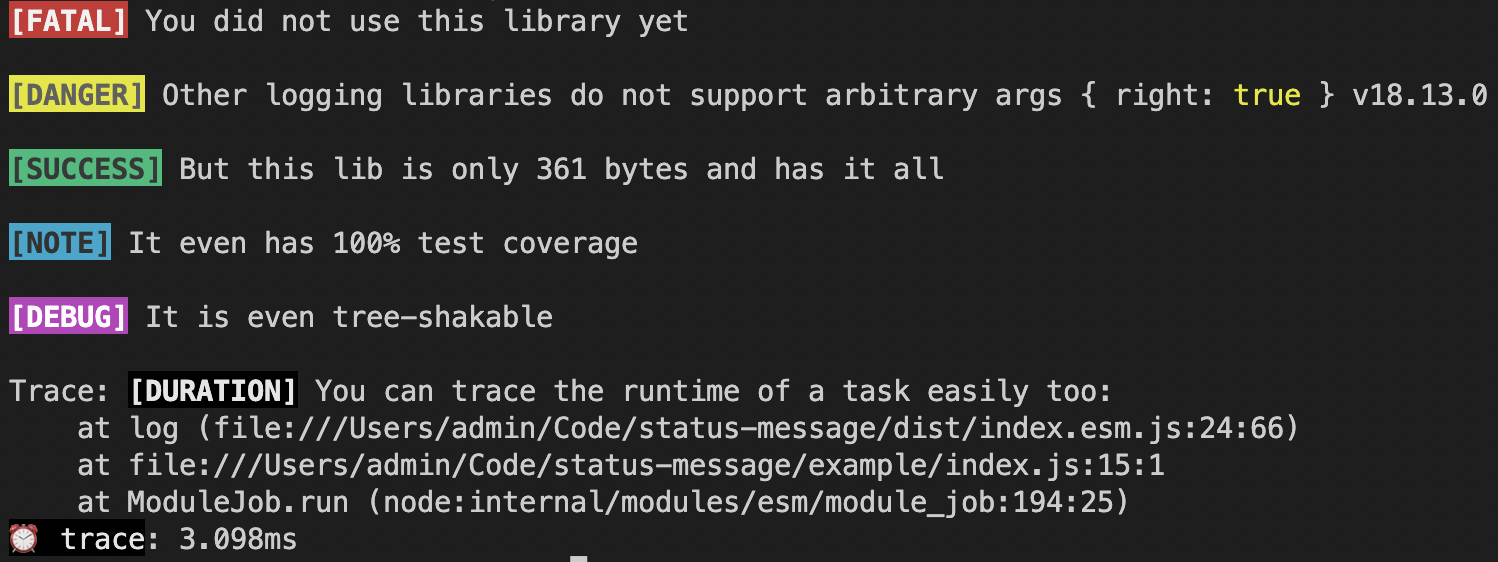
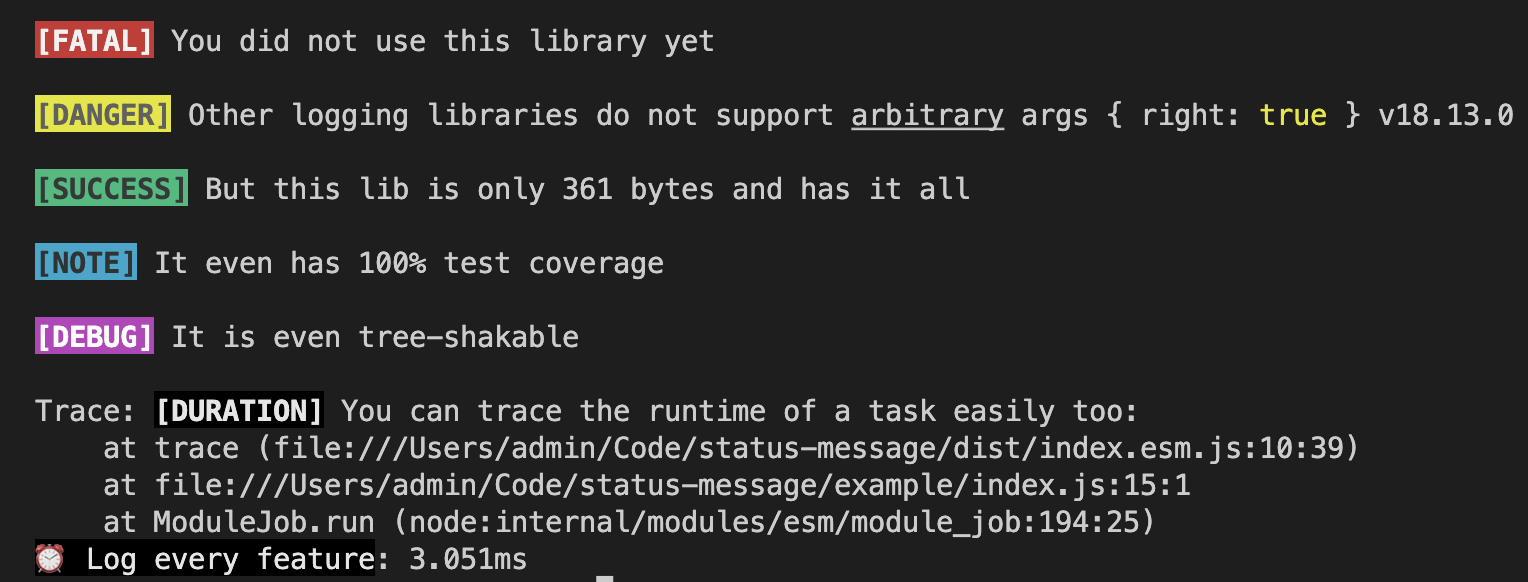
feat: reworked API

diff --git a/test/statusmessage.test.ts b/test/statusmessage.test.ts
@@ -1,6 +1,6 @@
 import { jest } from '@jest/globals'
 import * as colors from 'kleur/colors'
-import { Severity, boldWhiteText, wrapInBrackets, formatTag, log, logTime, logTimeEnd } from '../dist/index.esm'
+import { boldWhiteText, wrapInBrackets, log, time, timeEnd, error, warn, info, trace, debug } from '../dist/index.esm'
 
 describe('statusmessage', () => {
   it('can call statusmessage', () => {
@@ -20,65 +20,53 @@ describe('wrapInBrackets', () => {
   })
 })
 
-describe('formatTag', () => {
-  it('should return the tag wrapped in bold and white brackets with a red background for the error severity', () => {
-    expect(formatTag('error', 'test')).toEqual(colors.bgRed(wrapInBrackets('test')))
-  })
-})
-
 describe('log', () => {
   it('should call the console.info method with the formatted tag and arguments, severity: info', () => {
     console.info = jest.fn()
-    const severity: Severity = 'info'
     const tag = 'test'
     const args = ['arg1', 'arg2']
-    log(severity, tag, ...args)
-    expect(console.info).toHaveBeenCalledWith(formatTag(severity, tag), ...args)
+    info(tag, ...args)
+    expect(console.info).toHaveBeenCalled()
   })
 
   it('should call the console.log method with the formatted tag and arguments, severity: log', () => {
     console.log = jest.fn()
-    const severity: Severity = 'log'
     const tag = 'test'
     const args = ['arg1', 'arg2']
-    log(severity, tag, ...args)
-    expect(console.log).toHaveBeenCalledWith(formatTag(severity, tag), ...args)
+    log(tag, ...args)
+    expect(console.log).toHaveBeenCalled()
   })
 
   it('should call the console.error method with the formatted tag and arguments, severity: error', () => {
     console.error = jest.fn()
-    const severity: Severity = 'error'
     const tag = 'test'
     const args = ['arg1', 'arg2']
-    log(severity, tag, ...args)
-    expect(console.error).toHaveBeenCalledWith(formatTag(severity, tag), ...args)
+    error(tag, ...args)
+    expect(console.error).toHaveBeenCalled()
   })
 
   it('should call the console.warn method with the formatted tag and arguments, severity: warn', () => {
     console.warn = jest.fn()
-    const severity: Severity = 'warn'
     const tag = 'test'
     const args = ['arg1', 'arg2']
-    log(severity, tag, ...args)
-    expect(console.warn).toHaveBeenCalledWith(formatTag(severity, tag), ...args)
+    warn(tag, ...args)
+    expect(console.warn).toHaveBeenCalled()
   })
 
   it('should call the console.debug method with the formatted tag and arguments, severity: debug', () => {
     console.debug = jest.fn()
-    const severity: Severity = 'debug'
     const tag = 'test'
     const args = ['arg1', 'arg2']
-    log(severity, tag, ...args)
-    expect(console.debug).toHaveBeenCalledWith(formatTag(severity, tag), ...args)
+    debug(tag, ...args)
+    expect(console.debug).toHaveBeenCalled()
   })
 
   it('should call the console.trace method with the formatted tag and arguments, severity: trace', () => {
     console.trace = jest.fn()
-    const severity: Severity = 'trace'
     const tag = 'test'
     const args = ['arg1', 'arg2']
-    log(severity, tag, ...args)
-    expect(console.trace).toHaveBeenCalledWith(formatTag(severity, tag), ...args)
+    trace(tag, ...args)
+    expect(console.trace).toHaveBeenCalled()
   })
 })
 
@@ -86,14 +74,8 @@ describe('logTime', () => {
   it('should call the console time method with the formatted tag and arguments', () => {
     console.time = jest.fn()
     const tag = 'test'
-    logTime(tag)
+    time(tag)
     expect(console.time).toHaveBeenCalledTimes(1)
-  })
-})
-
-describe('formatTag', () => {
-  it('can format without severity', () => {
-    formatTag(undefined, 'foo')
   })
 })
 
@@ -103,24 +85,24 @@ describe('empty line', () => {
   })
 })
 
-describe('logTimeEnd', () => {
+describe('timEnd', () => {
   it('should call the console timeEnd method with the formatted tag and arguments', () => {
     console.timeEnd = jest.fn()
     const tag = 'test'
-    logTimeEnd(tag)
+    timeEnd(tag)
     expect(console.timeEnd).toHaveBeenCalledTimes(1)
   })
 })
 
 describe('README use-case', () => {
-  logTime('Log every feature')
+  time('Log every feature')
 
-  log('error', 'FATAL', 'You did not use this library yet')
-  log('warn', 'DANGER', 'Other logging libraries do not support arbitrary args', { right: true }, process.version)
-  log('log', 'SUCCESS', 'But this lib is only 361 bytes and has it all')
-  log('info', 'NOTE', 'It even has 100% test coverage')
-  log('debug', 'DEBUG', 'It is even tree-shakable')
-  log('trace', 'DURATION', 'You can trace the runtime of a task easily too:')
+  error('FATAL', 'You did not use this library yet')
+  warn('DANGER', 'Other logging libraries do not support arbitrary args', { right: true }, process.version)
+  log('SUCCESS', 'But this lib is only 361 bytes and has it all')
+  info('NOTE', 'It even has 100% test coverage')
+  debug('DEBUG', 'It is even tree-shakable')
+  trace('DURATION', 'You can trace the runtime of a task easily too:')
 
-  logTimeEnd('Log every feature')
+  timeEnd('Log every feature')
 })

diff --git a/src/index.ts b/src/index.ts
@@ -1,45 +1,26 @@
 import * as colors from 'kleur/colors'
 
-export type Severity = 'error' | 'warn' | 'log' | 'info' | 'debug' | 'trace'
-
-export interface StatusMessageOptions {
-  severity: Severity
-  message: string
-}
-
 export const boldWhiteText = (s: string) => colors.bold(colors.white(s))
 
 export const wrapInBrackets = (tag: string) => boldWhiteText(`[${tag}]`)
 
-/** formats the tag */
-export const formatTag = (severity?: Severity, tag?: string) => {
-  if (!severity && !tag) return ''
-
-  switch (severity) {
-    case 'error':
-      return colors.bgRed(wrapInBrackets(tag))
-    default:
-    case 'info':
-      return colors.black(colors.bgCyan(wrapInBrackets(tag)))
-    case 'warn':
-      return colors.black(colors.bgYellow(wrapInBrackets(tag)))
-    case 'log':
-      return colors.black(colors.bgGreen(wrapInBrackets(tag)))
-    case 'debug':
-      return colors.bgMagenta(wrapInBrackets(tag))
-    case 'trace':
-      return colors.white(colors.bgBlack(wrapInBrackets(tag)))
-  }
-}
-
-/** logs a status to the console, formatted */
-export const log = (severity?: Severity, tag?: string, ...args: Array<any>) =>
-  (console[severity || 'info'] as Function)(formatTag(severity, tag), ...args)
+export const error = (tag?: string, ...args: Array<any>) =>
+  console.error(colors.white(colors.bgRed(wrapInBrackets(tag))), ...args)
+export const info = (tag?: string, ...args: Array<any>) =>
+  console.info(colors.black(colors.bgCyan(wrapInBrackets(tag))), ...args)
+export const warn = (tag?: string, ...args: Array<any>) =>
+  console.warn(colors.bgBlack(colors.bgYellow(wrapInBrackets(tag))), ...args)
+export const log = (tag?: string, ...args: Array<any>) =>
+  console.log(!tag ? '' : colors.black(colors.bgGreen(wrapInBrackets(tag))), ...args)
+export const debug = (tag?: string, ...args: Array<any>) =>
+  console.debug(colors.white(colors.bgMagenta(wrapInBrackets(tag))), ...args)
+export const trace = (tag?: string, ...args: Array<any>) =>
+  console.trace(colors.white(colors.bgBlack(wrapInBrackets(tag))), ...args)
 
 export const formatTimeLabel = (label: string) => colors.bgBlack(colors.white(`⏰ ${label}`))
 
-/** logs when logTimeEnd(...) will be called with the same arguments */
-export const logTime = (label: string) => console.time(formatTimeLabel(label))
+/** logs when timeEnd(...) will be called with the same arguments */
+export const time = (label: string) => console.time(formatTimeLabel(label))
 
-/** prints the log with the duration since logTime(...) was called with the same arguments */
-export const logTimeEnd = (label: string) => console.timeEnd(formatTimeLabel(label))
+/** prints the log with the duration since time(...) was called with the same arguments */
+export const timeEnd = (label: string) => console.timeEnd(formatTimeLabel(label))

diff --git a/example/index.js b/example/index.js
@@ -1,17 +1,17 @@
-import { log, logTime, logTimeEnd } from '../dist/index.esm.js'
+import { log, error, warn, info, debug, trace, time, timeEnd } from '../dist/index.esm.js'
 
-logTime('trace', 'Log every feature')
+time('Log every feature')
 
-log('error', 'FATAL', 'You did not use this library yet')
+error('FATAL', 'You did not use this library yet')
 log()
-log('warn', 'DANGER', 'Other logging libraries do not support arbitrary args', { right: true }, process.version)
+warn('DANGER', 'Other logging libraries do not support arbitrary args', { right: true }, process.version)
 log()
-log('log', 'SUCCESS', 'But this lib is only 361 bytes and has it all')
+log('SUCCESS', 'But this lib is only 361 bytes and has it all')
 log()
-log('info', 'NOTE', 'It even has 100% test coverage')
+info('NOTE', 'It even has 100% test coverage')
 log()
-log('debug', 'DEBUG', 'It is even tree-shakable')
+debug('DEBUG', 'It is even tree-shakable')
 log()
-log('trace', 'DURATION', 'You can trace the runtime of a task easily too:')
+trace('DURATION', 'You can trace the runtime of a task easily too:')
 
-logTimeEnd('trace', 'Log every feature')
+timeEnd('Log every feature')

diff --git a/README.md b/README.md
@@ -8,12 +8,12 @@
 
 <h2 align="center">Features</h2>
 
-- ✅ Does offer `log(severity: Severity, tag: string, ...args: Array<any>)` colorful logging function
-- ✅ Severities are: `'error' | 'warn' | 'log' | 'info' | 'debug' | 'trace'`
-- ✅ Duration time measurements: `logTime(severity: Severity, tag: string, msg: string)`, `logTimeEnd(severity: Severity, tag: string, msg: string)`
+- ✅ Does offer colorful logging function
+- ✅ Severities are: `error(...)`, `warn(...)`, `log(...)`, `info(...)`, `debug(...)`, `trace(...)`
+- ✅ Duration time measurements: `time(label: string)`, `timeEnd(label: string)`
 - ✅ Uses the correct `console` API functions automatically (per severity)
 - ✅ Available as a simple API
-- ✅ Just `390 byte` nano sized (ESM, gizpped)
+- ✅ Just `361 byte` nano sized (ESM, gizpped)
 - ✅ Tree-shakable and side-effect free
 - ✅ First class TypeScript support
 - ✅ 100% Unit Test coverage
@@ -28,18 +28,18 @@
 <h3 align="center">ESM</h3>
 
 ```ts
-import { log, logTime, logTimeEnd } from '@jsheaven/status-message'
+import { log, error, warn, info, debug, trace, time, timeEnd } from '@jsheaven/status-message'
 
-logTime('trace', 'Log every feature')
+time('Log every feature')
 
-log('error', 'FATAL', 'You did not use this library yet')
-log('warn', 'DANGER', 'Other logging libraries do not support arbitrary args', { right: true }, process)
-log('log', 'SUCCESS', 'But this lib is only 390 bytes and has it all')
-log('info', 'NOTE', 'It even has 100% test coverage')
-log('debug', 'DEBUG', 'It is even tree-shakable')
-log('trace', 'DURATION', 'You can trace the runtime of a task easily too:')
+error('FATAL', 'You did not use this library yet')
+warn('DANGER', 'Other logging libraries do not support arbitrary args', { right: true }, process.version)
+log('SUCCESS', 'But this lib is only 361 bytes and has it all')
+info('NOTE', 'It even has 100% test coverage')
+debug('DEBUG', 'It is even tree-shakable')
+trace('DURATION', 'You can trace the runtime of a task easily too:')
 
-logTimeEnd('trace', 'Log every feature')
+timeEnd('Log every feature')
 ```
 
 <img src="output.png" height="200px" />
